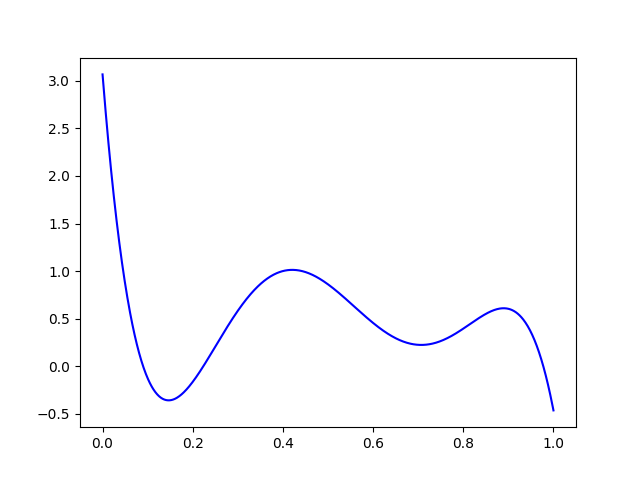
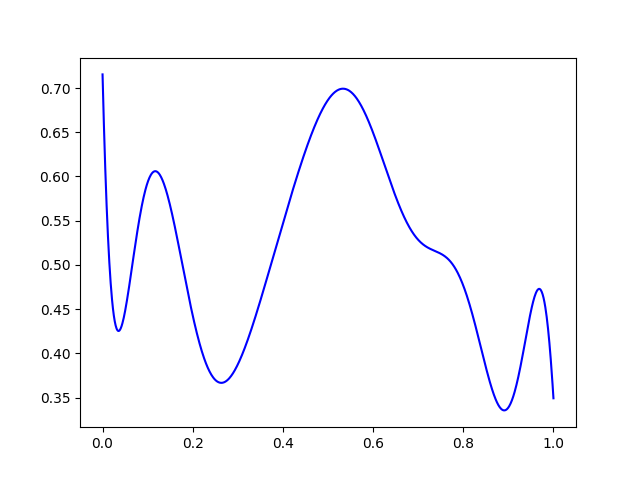
Add morecomplete predict drawing

diff --git a/main.py b/main.py
@@ -39,24 +39,21 @@ def get_pixel_data(surf, top_left, bottom_right):
 
 clock = pygame.time.Clock()
 
-RANK=5
-W,Ycenter,yDraw=generator.Q3(RANK)
-minY=min(yDraw)
-maxY=max(yDraw)
-# pointsX=np.linspace(0,100,1000)
-# for i in range(len(yDraw)):
-#     yDraw[i]=yDraw[i]-minY
-print(yDraw)
+
+
 run=True
 line=[]
-graphD=pygame.image.load('foo.png').convert()
-
+createdImage=False
+playerDraw=False
+graphD=[]
+RANK=0
 while run:
     clock.tick(FPS)
     screen.fill(BG_COLOR)
     pygame.draw.line(screen,BLACK,(700,0),(700,700))
     pygame.draw.line(screen,BLACK,(700,400),(1000,400))
-    screen.blit(graphD,(0,0))
+    if createdImage==True:
+        screen.blit(graphD,(0,0))
     for i in range(len(line)):
         pygame.draw.circle(screen,BLACK,(line[i][0],line[i][1]),2)
     for event in pygame.event.get():
@@ -65,14 +62,24 @@ while run:
         if pygame.mouse.get_pressed()[0]:
             positionX,positionY=pygame.mouse.get_pos()
             line.append((pygame.mouse.get_pos()))
-        if event.type ==pygame.KEYDOWN:
-            if event.key==pygame.K_k:
+            playerDraw=True
+        else:
+            if playerDraw==True:
+                playerDraw=False
                 pxarray = get_pixel_data(screen,[701,401],[1000,700])
                 # print(pxarray.shape)
                 # plt.imsave('image.png',pxarray)
                 pygame.image.save(pxarray,'input.png')
+                imagePredict.Proccess(W,yDraw,RANK)
+        if event.type ==pygame.KEYDOWN:
             if event.key==pygame.K_p:
-                imagePredict.Proccess(W,Ycenter,yDraw,RANK)
+                line=[]
+                RANK+=1
+                W,yDraw=generator.Q3(RANK,'foo.png')
+                minY=min(yDraw)
+                maxY=max(yDraw)
+                graphD=pygame.image.load('foo.png').convert()
+                createdImage=True
     # for i in range(len(yDraw)):
     #     pygame.draw.circle(screen,BLACK,(pointsX[i],yDraw[i]*10),2)
     pygame.display.update()

diff --git a/GraphHandler/imagePredict.py b/GraphHandler/imagePredict.py
@@ -77,7 +77,8 @@ def loss(pX,pY,yBottom,yTop,RANK,W):
   # plt.show()
   return LOSS/len(pX)
 
-def Proccess(W,Ycenter,yDraw,RANK):
+def Proccess(W,yDraw,RANK):
+    Ycenter=yDraw[500]
     pointsX=np.linspace(0,1,1000)
     img=cv2.imread('input.png',0)
     # cv2.imshow('input',img)
@@ -112,7 +113,6 @@ def Proccess(W,Ycenter,yDraw,RANK):
     centerDistanceY=Ycenter-poiY[len(poiY)//2]
     plt.plot(poiX,poiY,'red')
     plt.plot(pointsX,yDraw,'blue')
-    plt.show()
     print('distance after fit center',centerDistanceY)
     print('loss after fit center',loss(poiX,poiY,min(yDraw),max(yDraw),RANK,W))
     print('limit',min(yDraw),max(yDraw))
@@ -120,6 +120,7 @@ def Proccess(W,Ycenter,yDraw,RANK):
         print('Correct')
     else:
         print('wrong')
+    plt.show()
 
 
 

diff --git a/GraphHandler/generator.py b/GraphHandler/generator.py
@@ -11,10 +11,10 @@ def sin_f(x):
 
 #CREATE LEAST SQUARES ANALYTICAL SOLUTION FUNCTION 
 
-def Q3(rank):
+def Q3(rank,outputName):
   #CREATE MATRIX WITH RANK-ORDER
-  X=np.random.rand(10,1)
-  Y=np.random.rand(10,1)
+  X=np.random.rand(100,1)
+  Y=np.random.rand(100,1)
   ADup=np.zeros_like(X)
   RANK=rank+1
   A=np.zeros_like(X)
@@ -41,7 +41,7 @@ def Q3(rank):
   # pointSinY=sin_f(pointsX)
   # plt.plot(pointsX,pointSinY,color = 'green')
 #   plt.plot(X,Y,'ro')
-  plt.savefig('foo.png')
-  return W,pointsY[500],pointsY
+  plt.savefig(outputName)
+  return W,pointsY
 
 
